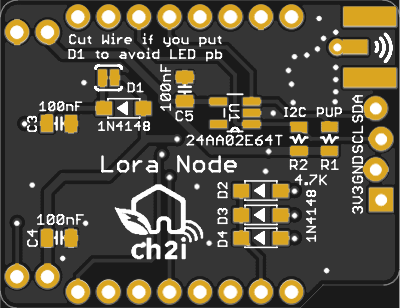
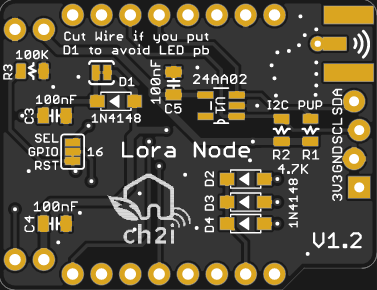
Bump to V1.2

diff --git a/README.md b/README.md
@@ -9,19 +9,22 @@ This shield is used to hold HopeRF [Lora module][4] Software with WeMos ESP8266 
 - 2 x WS2812B Type LED for visual indication
 - Custom switch on GPIO2
 - Added footprint for Microchip 24AA02E64 64 bits serial number (v1.1+) 
+- Added Solder PAD jumper to be able to connect GPIO16 to Reset to enable deep sleep (V1.2+)
 
 
 You can find more information on WeMos on their [site][1], it's really well documented.
 I now use WeMos boards instead of NodeMCU's one because they're just smaller, features remains the same, but I also suspect WeMos regulator far better quality than the one used on NodeMCU that are just fake of originals AMS117 3V3.
 
-Boards arrived from OSHPark, I tested them, works fine with forked version of [single Channel LoRaWAN Gateway][5] but you can use any program that is compatible with RFM95 Lora module according it to real pinout.
+Boards arrived, I tested them, works fine with forked version of [single Channel LoRaWAN Gateway][5] but you can use any program that is compatible with RFM95 Lora module according it to real pinout.
 
 Detailed Description
 ====================
 
 Look at the schematics for more informations.
 
-SPI connexion is classic (MOSI/MISO/CLK), Chip Select is connected with GPIO16.
+SPI connexion is classic (MOSI/MISO/CLK), 
+
+Since V1.2, chip Select is still connected with GPIO16 by default but solder pad on bottom of the board allow you to connect GPIO16 to RESET for Deep Sleep. In this case, please add and solder R3 Pulldown (100K) to make RFM95 SPI device always selected.
 
 Other pins that may need be adapted into code (for example if you use TTN network gateway code) according to the following pinout
 
@@ -34,13 +37,14 @@ You can see more details ont this dedicated LMIC [Pull Request][6]
   GPIO13 (D7) <----> MOSI
   GPIO14 (D5) <----> CLK
   GPIO15 (D8) <----> DIO0/D2 OR DIO1/D3 OR DIO2/D4
-  GPIO16 (D0) <----> SEL (Chip Select)
+  GPIO16 (D0) <----> SEL Chip Select (depending on bottom solder PAD position)
 
    WeMos D1         Shield Feature
-  GPIO5 (D1) <----> I2C SCL
-  GPIO4 (D2) <----> I2C SDA
-  GPIO0 (D3) <----> WS2812 LEDS
-  GPIO2 (D4) <----> Push Button
+  GPIO5  (D1) <----> I2C SCL
+  GPIO4  (D2) <----> I2C SDA
+  GPIO0  (D3) <----> WS2812 LEDS
+  GPIO2  (D4) <----> Push Button
+  GPIO16 (D0) <----> RESET (depending on bottom solder PAD position)
 ```
 
 ### Schematic  
@@ -53,7 +57,7 @@ You can see more details ont this dedicated LMIC [Pull Request][6]
 <img src="https://raw.githubusercontent.com/hallard/WeMos-Lora/master/pictures/WeMos-Lora-top.png" alt="Top">&nbsp;
 <img src="https://raw.githubusercontent.com/hallard/WeMos-Lora/master/pictures/WeMos-Lora-bot.png" alt="Bottom">
 
-You can order the PCB of this board at [PCBs.io][3] if you do so, PCBs.io give me little discount that allow me to buy some new created boards.
+You can order the PCB of this board at [PCBs.io][3] if you do so, PCBs.io give me discount that allow me to buy some new created boards.
 
 ### Assembled boards
 
